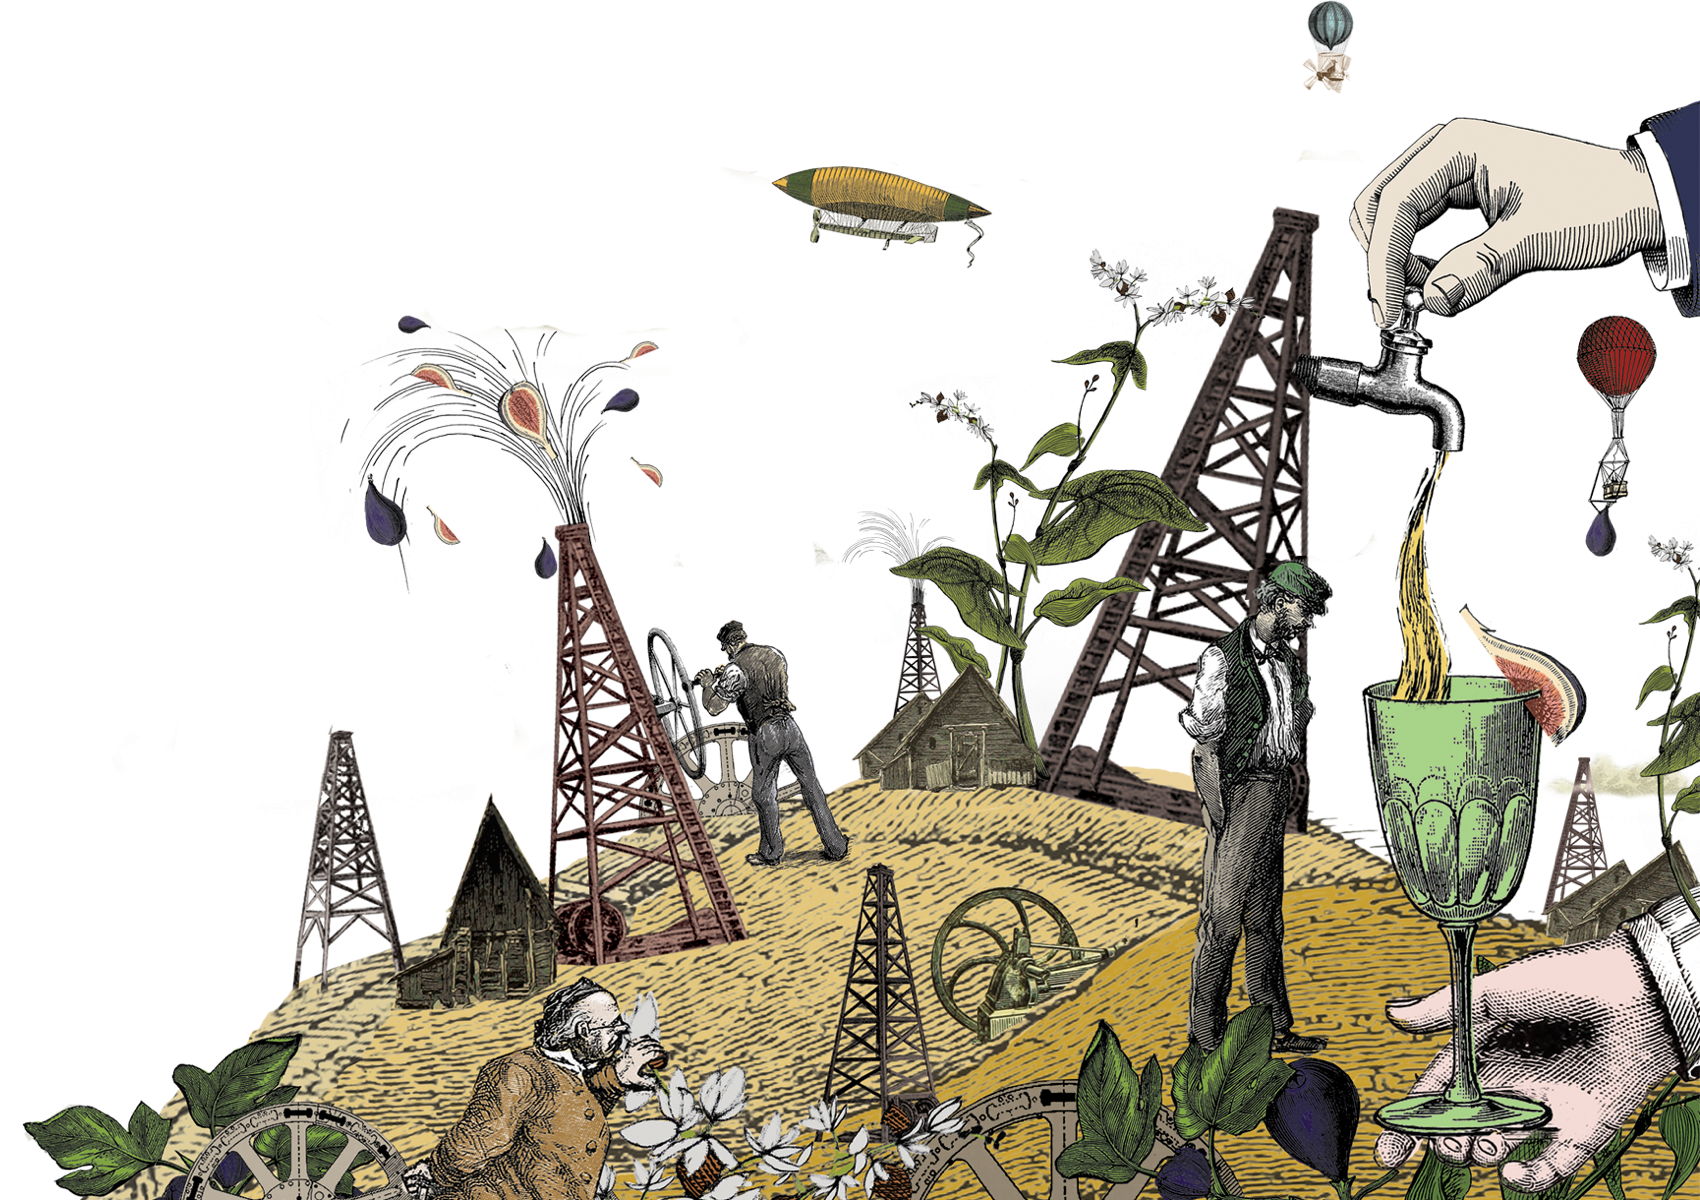
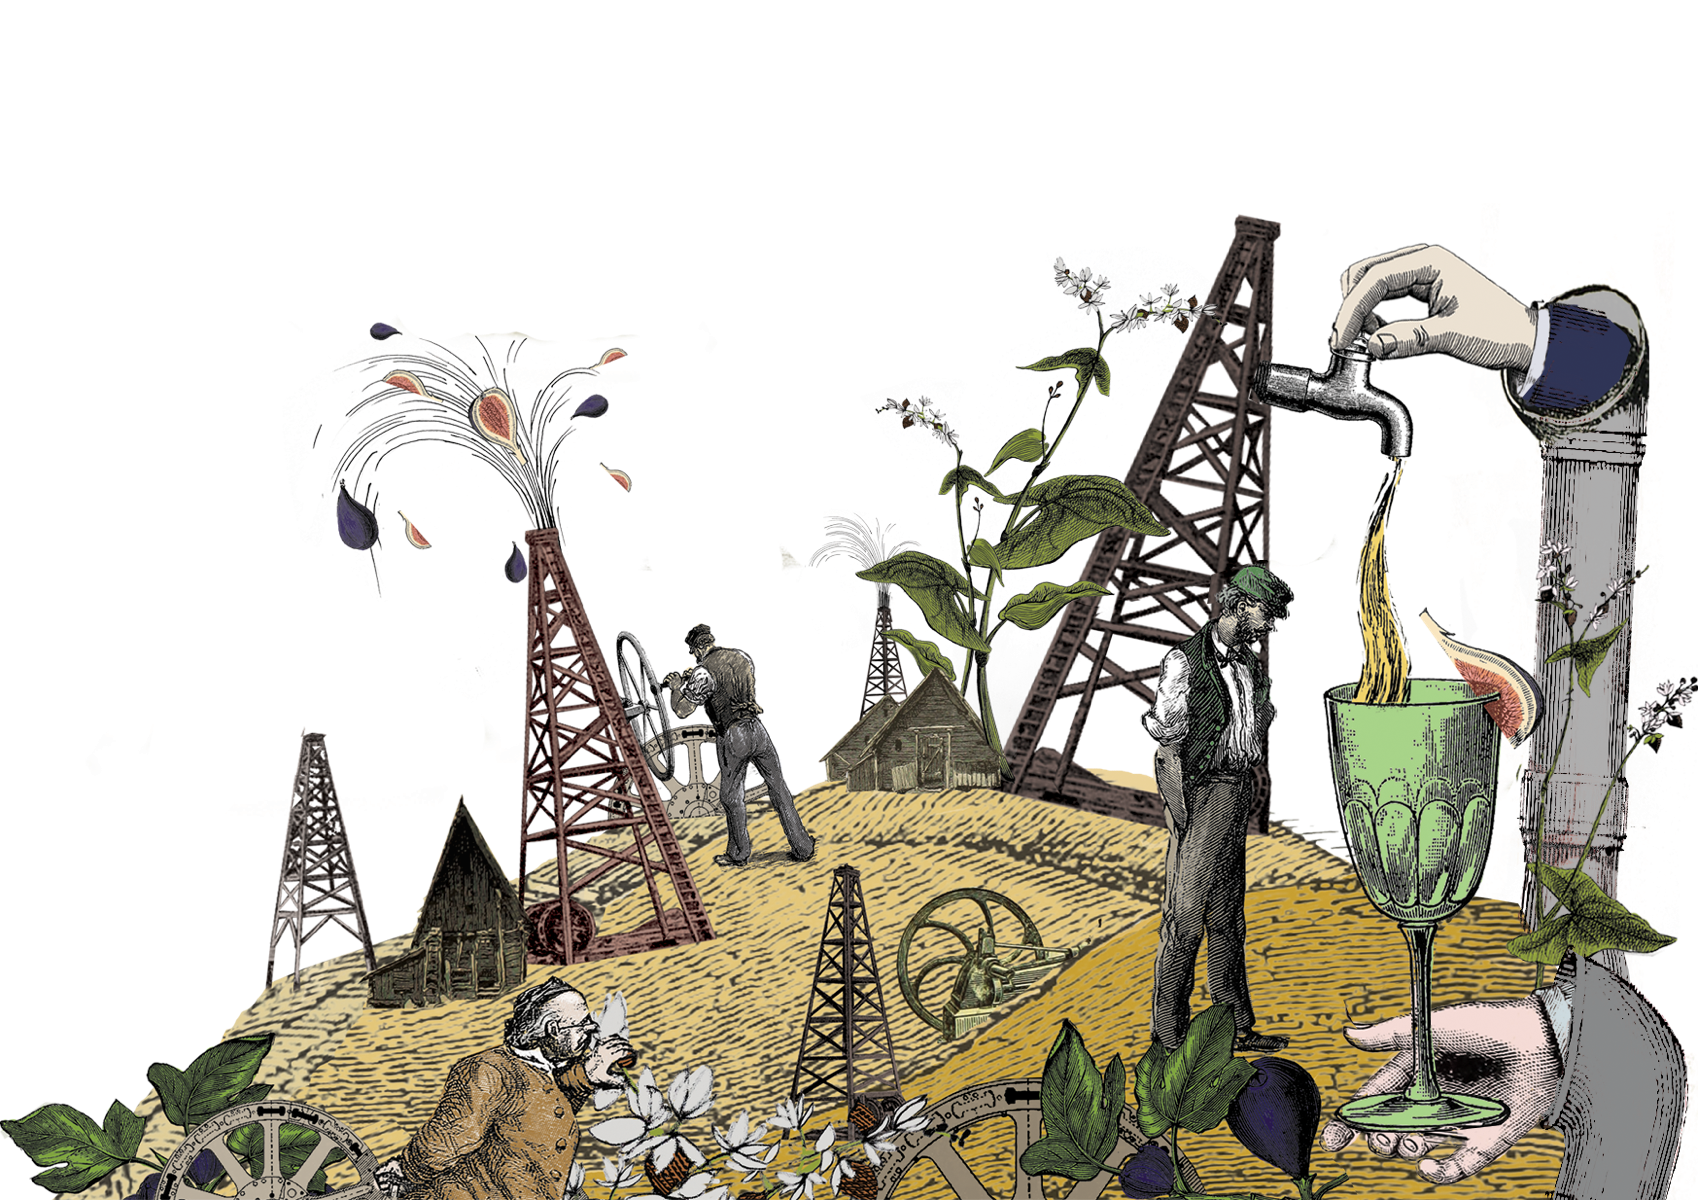
Add hero section image animation. Add moving objects.

diff --git a/static/css/sections.less b/static/css/sections.less
@@ -55,34 +55,101 @@
                 z-index: 1;
             }
 
+            .animation-container {
+                position: absolute;
+                left: 0;
+                right: 0;
+                top: 0;
+                bottom: 0;
+
+                img {
+                    width: 100%;
+                }
+            }
+
+            .animation-container--clouds {
+                animation: 100s ease-in-out 1s 1000 moveLeftToRight;
+            }
+
+            .animation-container--aircraft {
+                animation: 40s linear 3s 1000 moveUpAndDown;
+            }
+
+            .animation-container--balloon-blue {
+                animation: 40s linear 3s 1000 moveDownAndUp;
+            }
+
+            .animation-container--balloon-red {
+                animation: 50s linear 3s 1000 diving;
+            }
+
             @keyframes moveLeftToRight {
                 0% {
                     transform: translateX(0);
                 }
                 25% {
-                    transform: translateX(-15%);
+                    transform: translateX(-10%);
                 }
                 50% {
                     transform: translateX(0%);
                 }
                 75% {
-                    transform: translateX(15%);
+                    transform: translateX(10%);
                 }
                 100% {
                     transform: translateX(0%);
                 }
             }
 
-            .cloud-container {
-                position: absolute;
-                left: 0;
-                right: 0;
-                top: 0;
-                bottom: 0;
-                animation: 100s ease-in-out 1s 10 moveLeftToRight;
+            @keyframes diving {
+                0% {
+                     transform:rotate(0deg);
+                }
+                25% {
+                     transform:rotate(3deg);
+                }
 
-                img {
-                    width: 100%;
+                75% {
+                    transform:rotate(-3deg);
+                }
+                100% {
+                    transform:rotate(0deg);
+                }
+            }
+
+            @keyframes moveUpAndDown {
+                0% {
+                    transform: translateY(0);
+                }
+                25% {
+                    transform: translateY(-3%);
+                }
+                50% {
+                    transform: translateY(0%);
+                }
+                75% {
+                    transform: translateY(-3%);
+                }
+                100% {
+                    transform: translateY(0%);
+                }
+            }
+
+            @keyframes moveDownAndUp {
+                0% {
+                    transform: translateY(0);
+                }
+                25% {
+                    transform: translateY(3%);
+                }
+                50% {
+                    transform: translateY(0%);
+                }
+                75% {
+                    transform: translateY(3%);
+                }
+                100% {
+                    transform: translateY(0%);
                 }
             }
         }

diff --git a/index.html b/index.html
@@ -56,8 +56,17 @@
             </div>
             <div class="hero--image">
                 <img src="static/images/section-hero.png">
-                <div class="cloud-container">
+                <div class="animation-container animation-container--clouds">
                     <img src="static/images/section-hero-clouds.png">
+                </div>
+                <div class="animation-container animation-container--aircraft">
+                    <img src="static/images/section-hero-aircraft.png">
+                </div>
+                <div class="animation-container animation-container--balloon-blue">
+                    <img src="static/images/section-hero-balloon-blue.png">
+                </div>
+                <div class="animation-container animation-container--balloon-red">
+                    <img src="static/images/section-hero-balloon-red.png">
                 </div>
             </div>
         </div>
